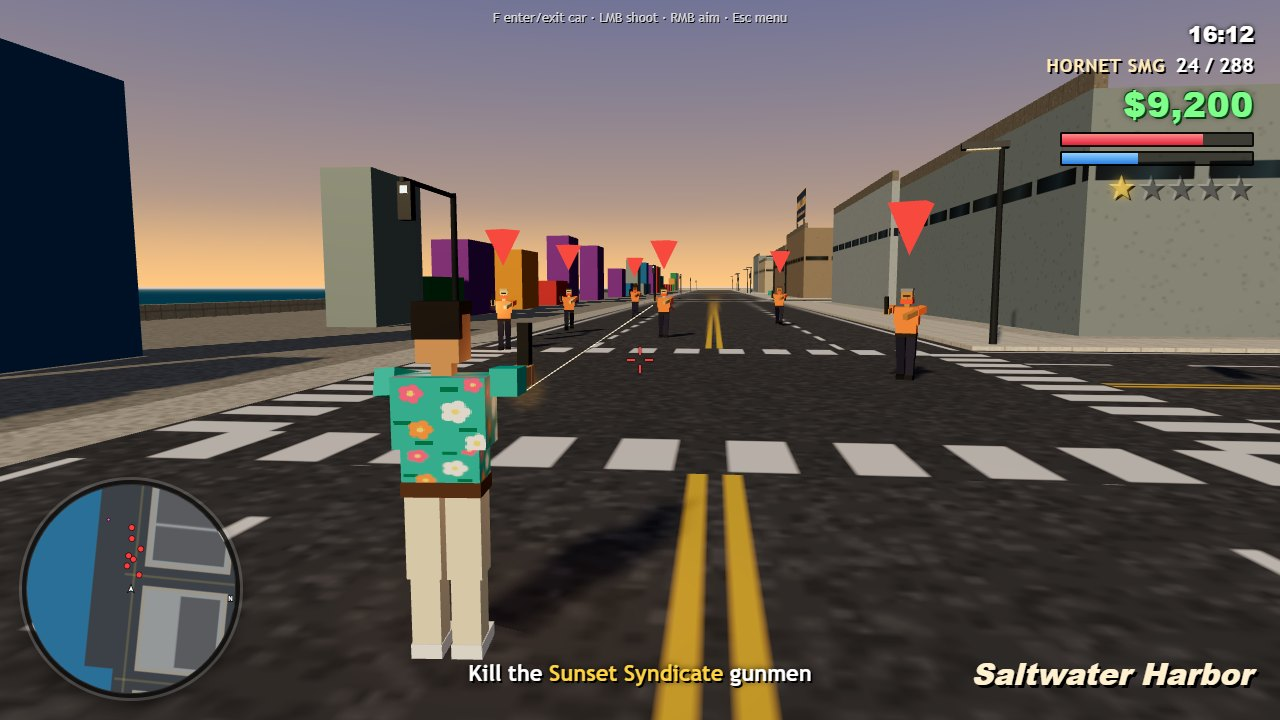
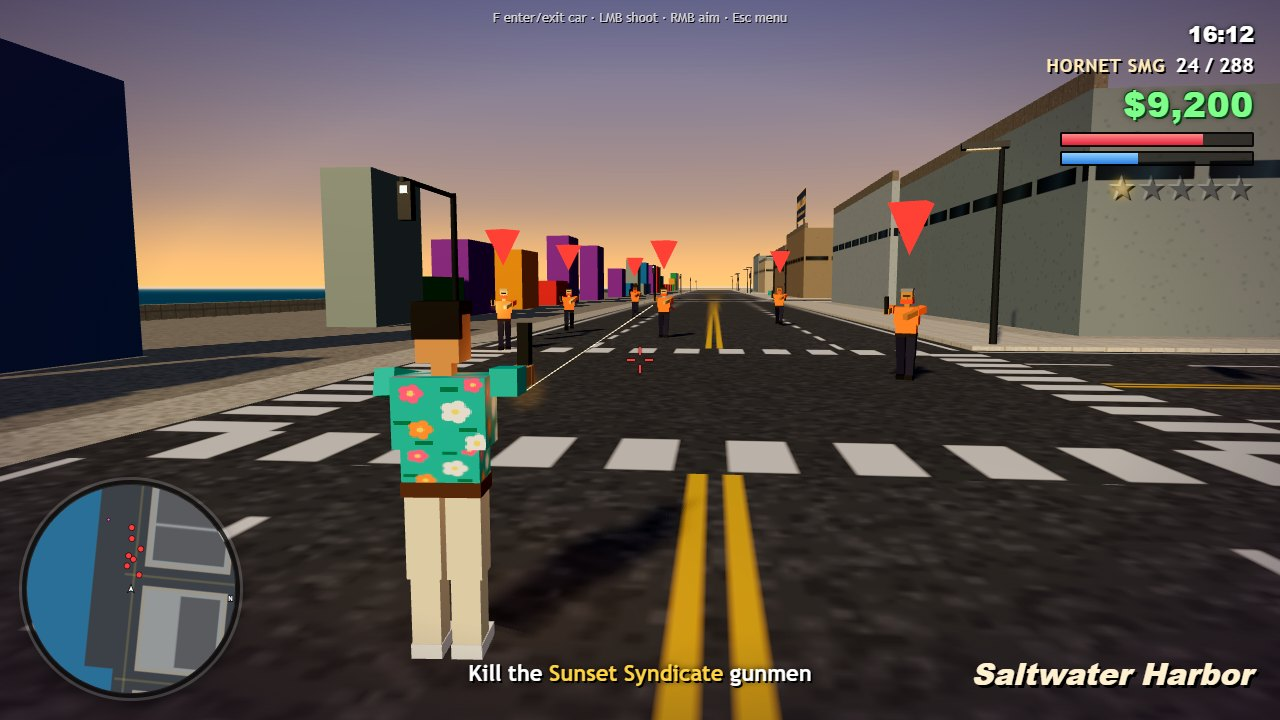
Cinematic vignette and grading; main.ts refuses to hand in without a game

diff --git a/game/style.css b/game/style.css
@@ -1,6 +1,8 @@
 /* Palmera Heat: the HUD, menus and screens drawn over the 3D view. */
 html, body { margin: 0; height: 100%; overflow: hidden; background: #0d0a1a; font-family: "Trebuchet MS", "Segoe UI", sans-serif; color: #fff; user-select: none; }
 #game { position: fixed; inset: 0; width: 100%; height: 100%; display: block; }
+#game { filter: saturate(1.14) contrast(1.06); }
+#vignette { position: fixed; inset: 0; pointer-events: none; background: radial-gradient(ellipse at center, rgba(0,0,0,0) 55%, rgba(20,6,30,0.42) 100%); }
 #game.dead { filter: grayscale(0.85) contrast(1.1) brightness(0.8); transition: filter 1.2s; }
 .hidden { display: none !important; }
 #status { position: absolute; width: 1px; height: 1px; overflow: hidden; clip-path: inset(50%); }

diff --git a/main.ts b/main.ts
@@ -16,6 +16,9 @@ import { buildDossier } from './vendor/makefun-game.ts';
 const repoRoot = fileURLToPath(new URL('.', import.meta.url));
 const outputDir = process.env.MAKEFUN_OUTPUT_DIR ?? '/output';
 
+if (!existsSync(join(repoRoot, 'game', 'index.html'))) {
+  throw new Error('game/index.html is missing: there is no game to hand in');
+}
 mkdirSync(outputDir, { recursive: true });
 cpSync(join(repoRoot, 'game'), join(outputDir, 'game'), { recursive: true });
 mkdirSync(join(outputDir, 'screenshots'), { recursive: true });

diff --git a/game/index.html b/game/index.html
@@ -8,6 +8,7 @@
 </head>
 <body>
 <canvas id="game" aria-label="Palmera Heat: an open-world crime game in the sun-soaked city of Palmera Keys"></canvas>
+<div id="vignette"></div>
 
 <div id="hud" class="hidden">
   <div id="topright">
